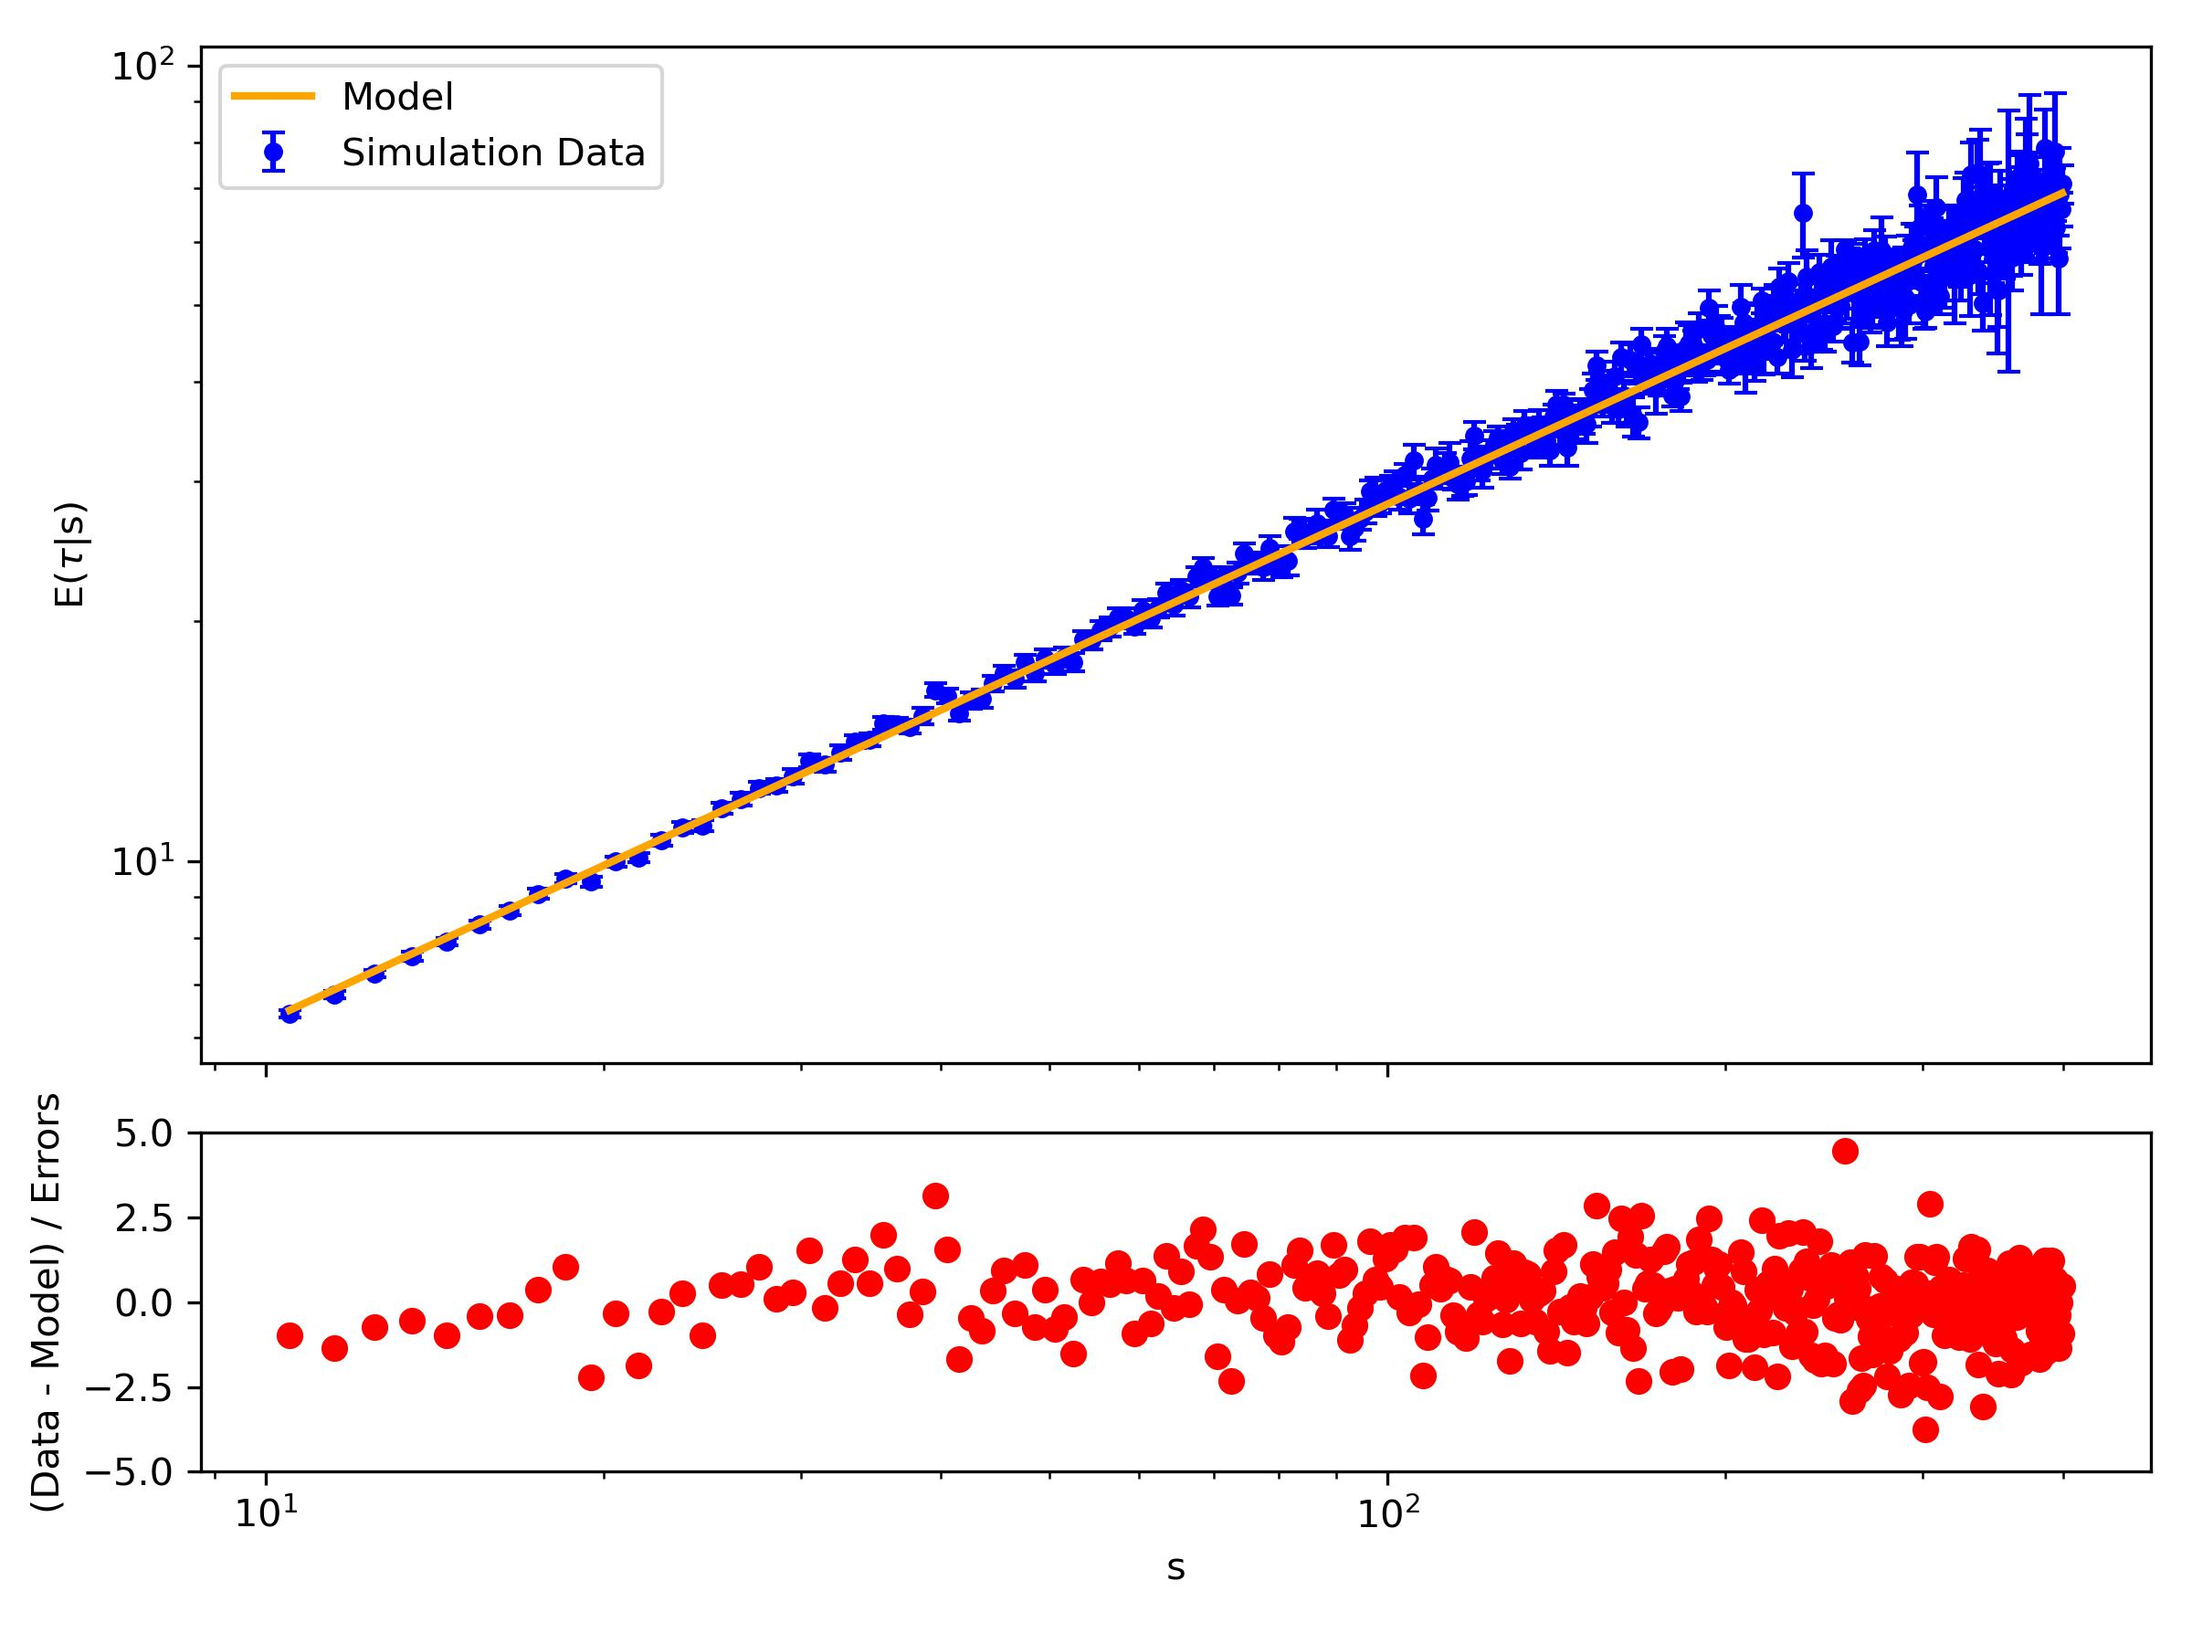
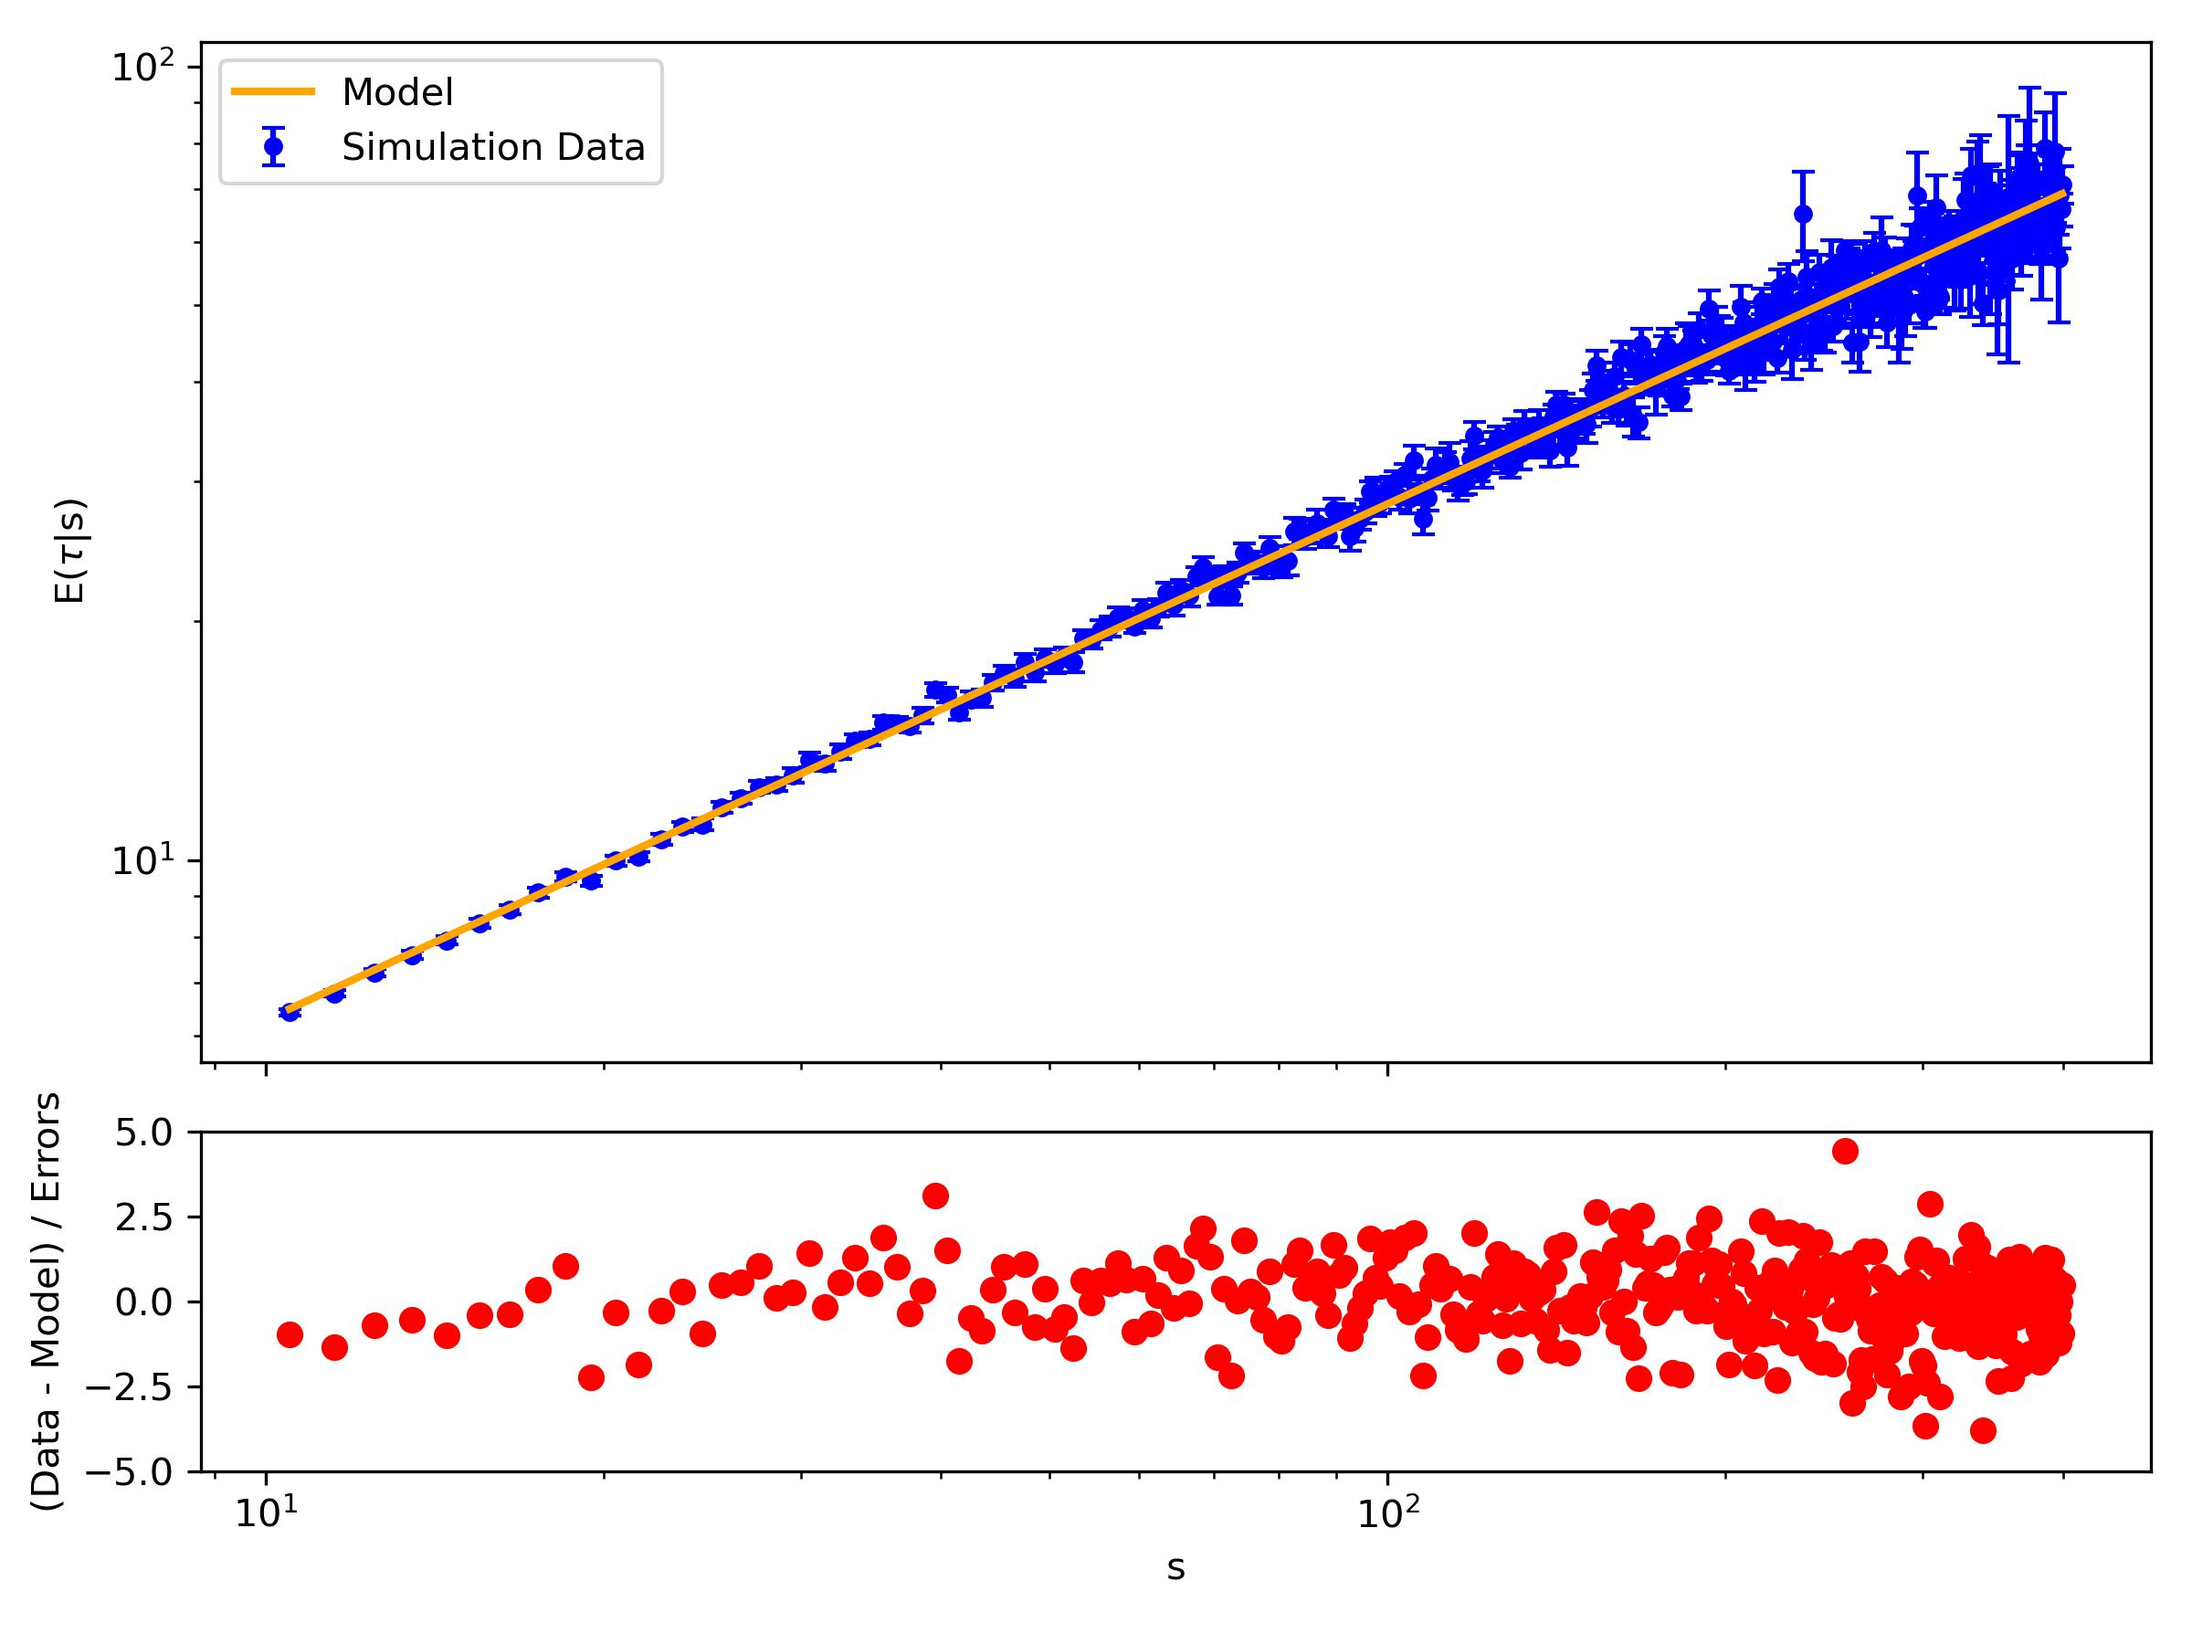
fixed big errors in fit

diff --git a/calc_exponents.py b/calc_exponents.py
@@ -39,11 +39,12 @@ def conditional_expectation_value(variable: str, condition: str, bins: np.ndarra
         list = df[(df[condition] >= left_edge) & (df[condition] < right_edge)][variable].to_numpy()
 
         if np.any(list):
-                
+
+            list = unp.uarray(list, np.sqrt(list))    
             expectation = np.sum(list) / len(list)
                 
-            expectation_list.append(expectation)
-            expectation_list_err.append(expectation)
+            expectation_list.append(unp.nominal_values(expectation))
+            expectation_list_err.append(unp.std_devs(expectation))
         else:
             expectation_list.append(0)   
             expectation_list_err.append(1)     
@@ -132,7 +133,7 @@ def get_exponent_from_simulation_data_conditional_exp_value(fit_function: str, b
 
     for sample in samples:
         x, data = conditional_expectation_value(variable, condition, bins, sample, x_limit)
-        m = fit_data(fit_function, x, unp.nominal_values(data), unp.std_devs(data), starting_values)
+        m = fit_data(fit_function, x, unp.nominal_values(data), unp.std_devs(data_org), starting_values)
         if m.valid:
             parameter_amp, parameter_exp = m.values['amp'], m.values['exponent']
             parameters_amp.append(parameter_amp)
